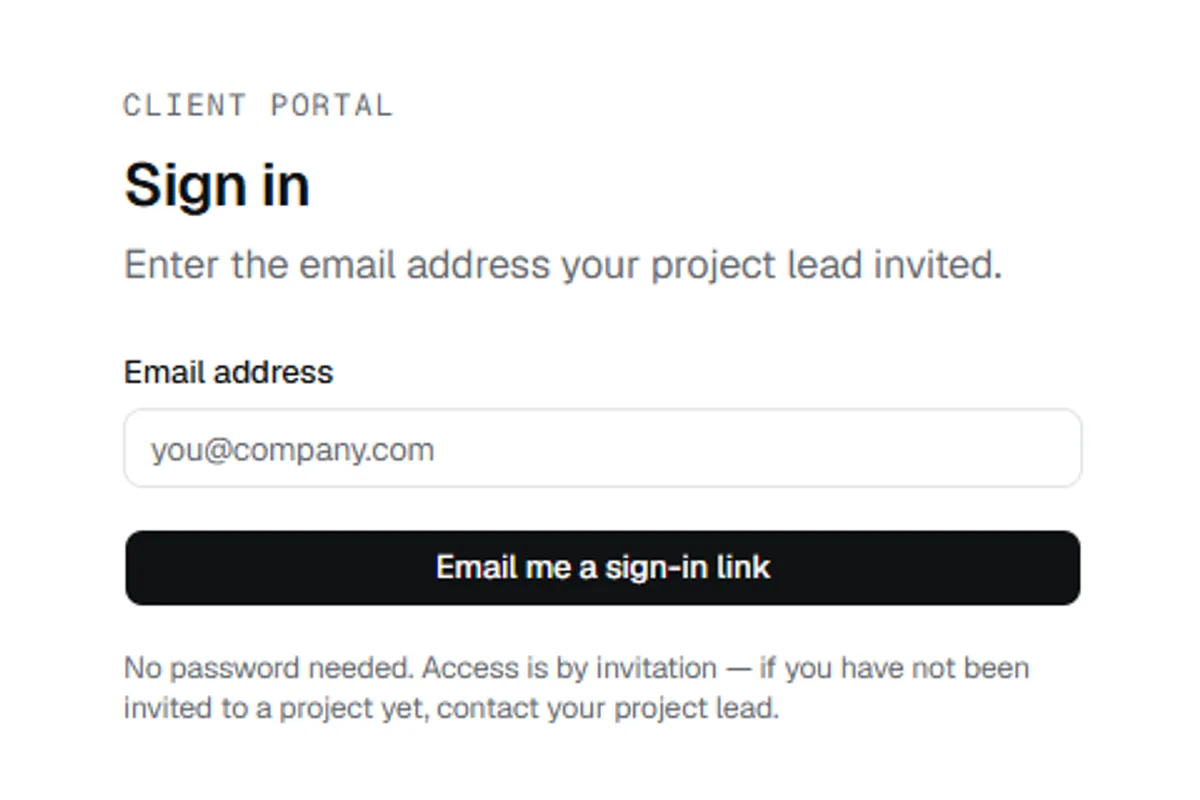
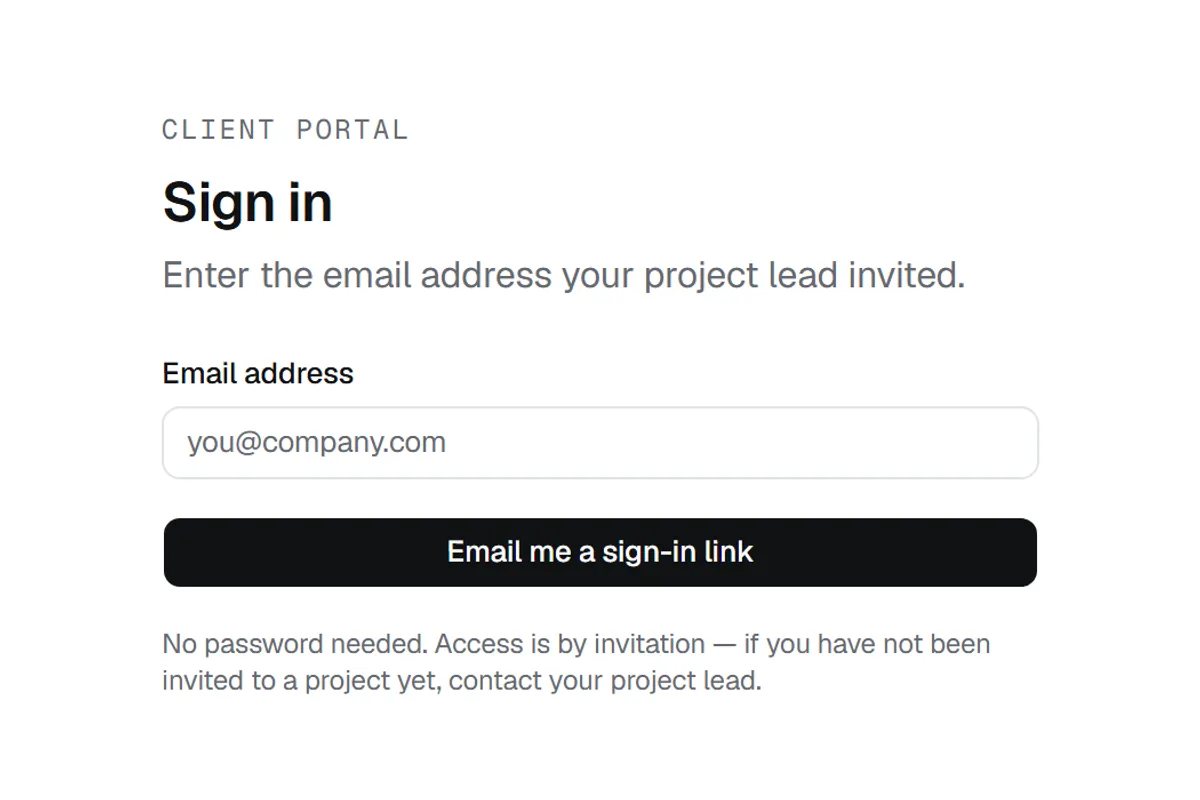
fix(real-apps): remove signup promises and resharpen the portal thumbnail
Only one of the three apps has open signup: the learning hub needs none and
the client portal is invite only. Three places promised otherwise — the H1
subcopy, the page metadata description, and the section subcopy fixed
earlier. A visitor following "sign up" into the client portal hit an
invite-only wall.

Thumbnail recaptured from the live login page at 900x600 @2x DPR and cropped
to 3:2, so it is a 1.14x resize rather than the 2.5x upscale of the previous
desktop screenshot.

diff --git a/app/real-apps/real-apps-content.tsx b/app/real-apps/real-apps-content.tsx
@@ -54,7 +54,7 @@ export function RealAppsContent() {
             </h1>
             <p className="mx-auto mt-5 max-w-2xl text-[15px] leading-relaxed text-white/60">
               Not automations or templates, full apps with auth, databases, and
-              real users. Sign up, click around, and see how they work.
+              real users. Click through and see how they actually work.
             </p>
           </div>
 

diff --git a/app/real-apps/page.tsx b/app/real-apps/page.tsx
@@ -4,7 +4,7 @@ import { RealAppsContent } from "./real-apps-content";
 export const metadata: Metadata = {
   title: "MVP",
   description:
-    "Full-stack apps I built, shipped, and run, not automations or templates. Sign up and try them.",
+    "Full-stack apps I built, shipped, and run, not automations or templates. Click through and try them.",
 };
 
 export default function RealAppsPage() {
